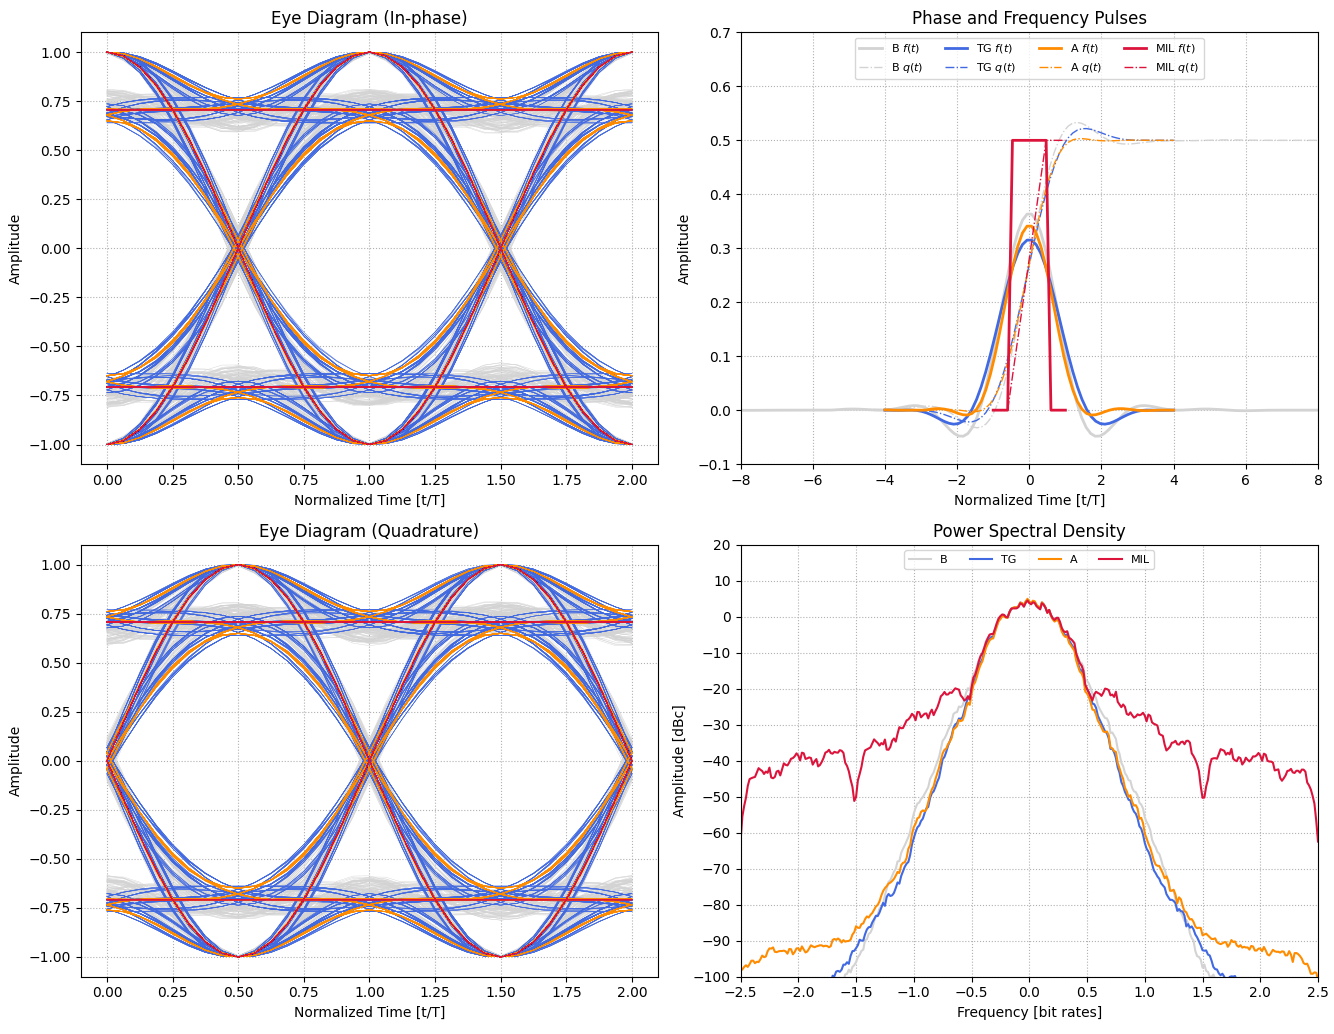
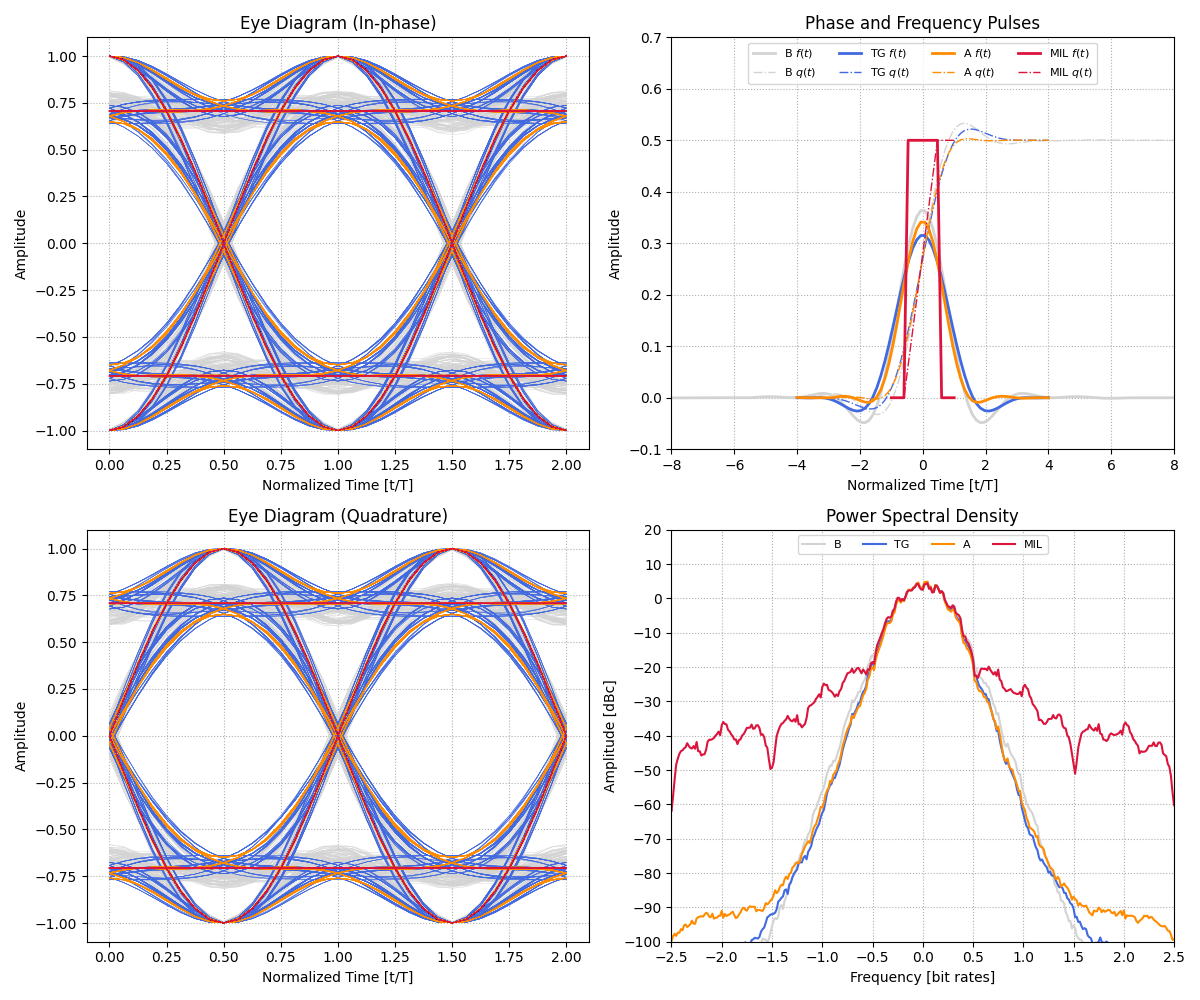
soqpsk_example.py now generates the corresponding image.

diff --git a/examples/soqpsk_example.py b/examples/soqpsk_example.py
@@ -1,4 +1,5 @@
 import random
+from pathlib import Path
 
 import numpy as np
 from numpy.typing import NDArray
@@ -140,4 +141,5 @@ if __name__ == "__main__":
     psd_ax.xaxis.set_major_locator(MultipleLocator(0.5))
 
     fig_eye.tight_layout()
+    fig_eye.savefig(Path(__file__).parent.parent / "images" / "soqpsk_waveforms1.png")
     fig_eye.show()
